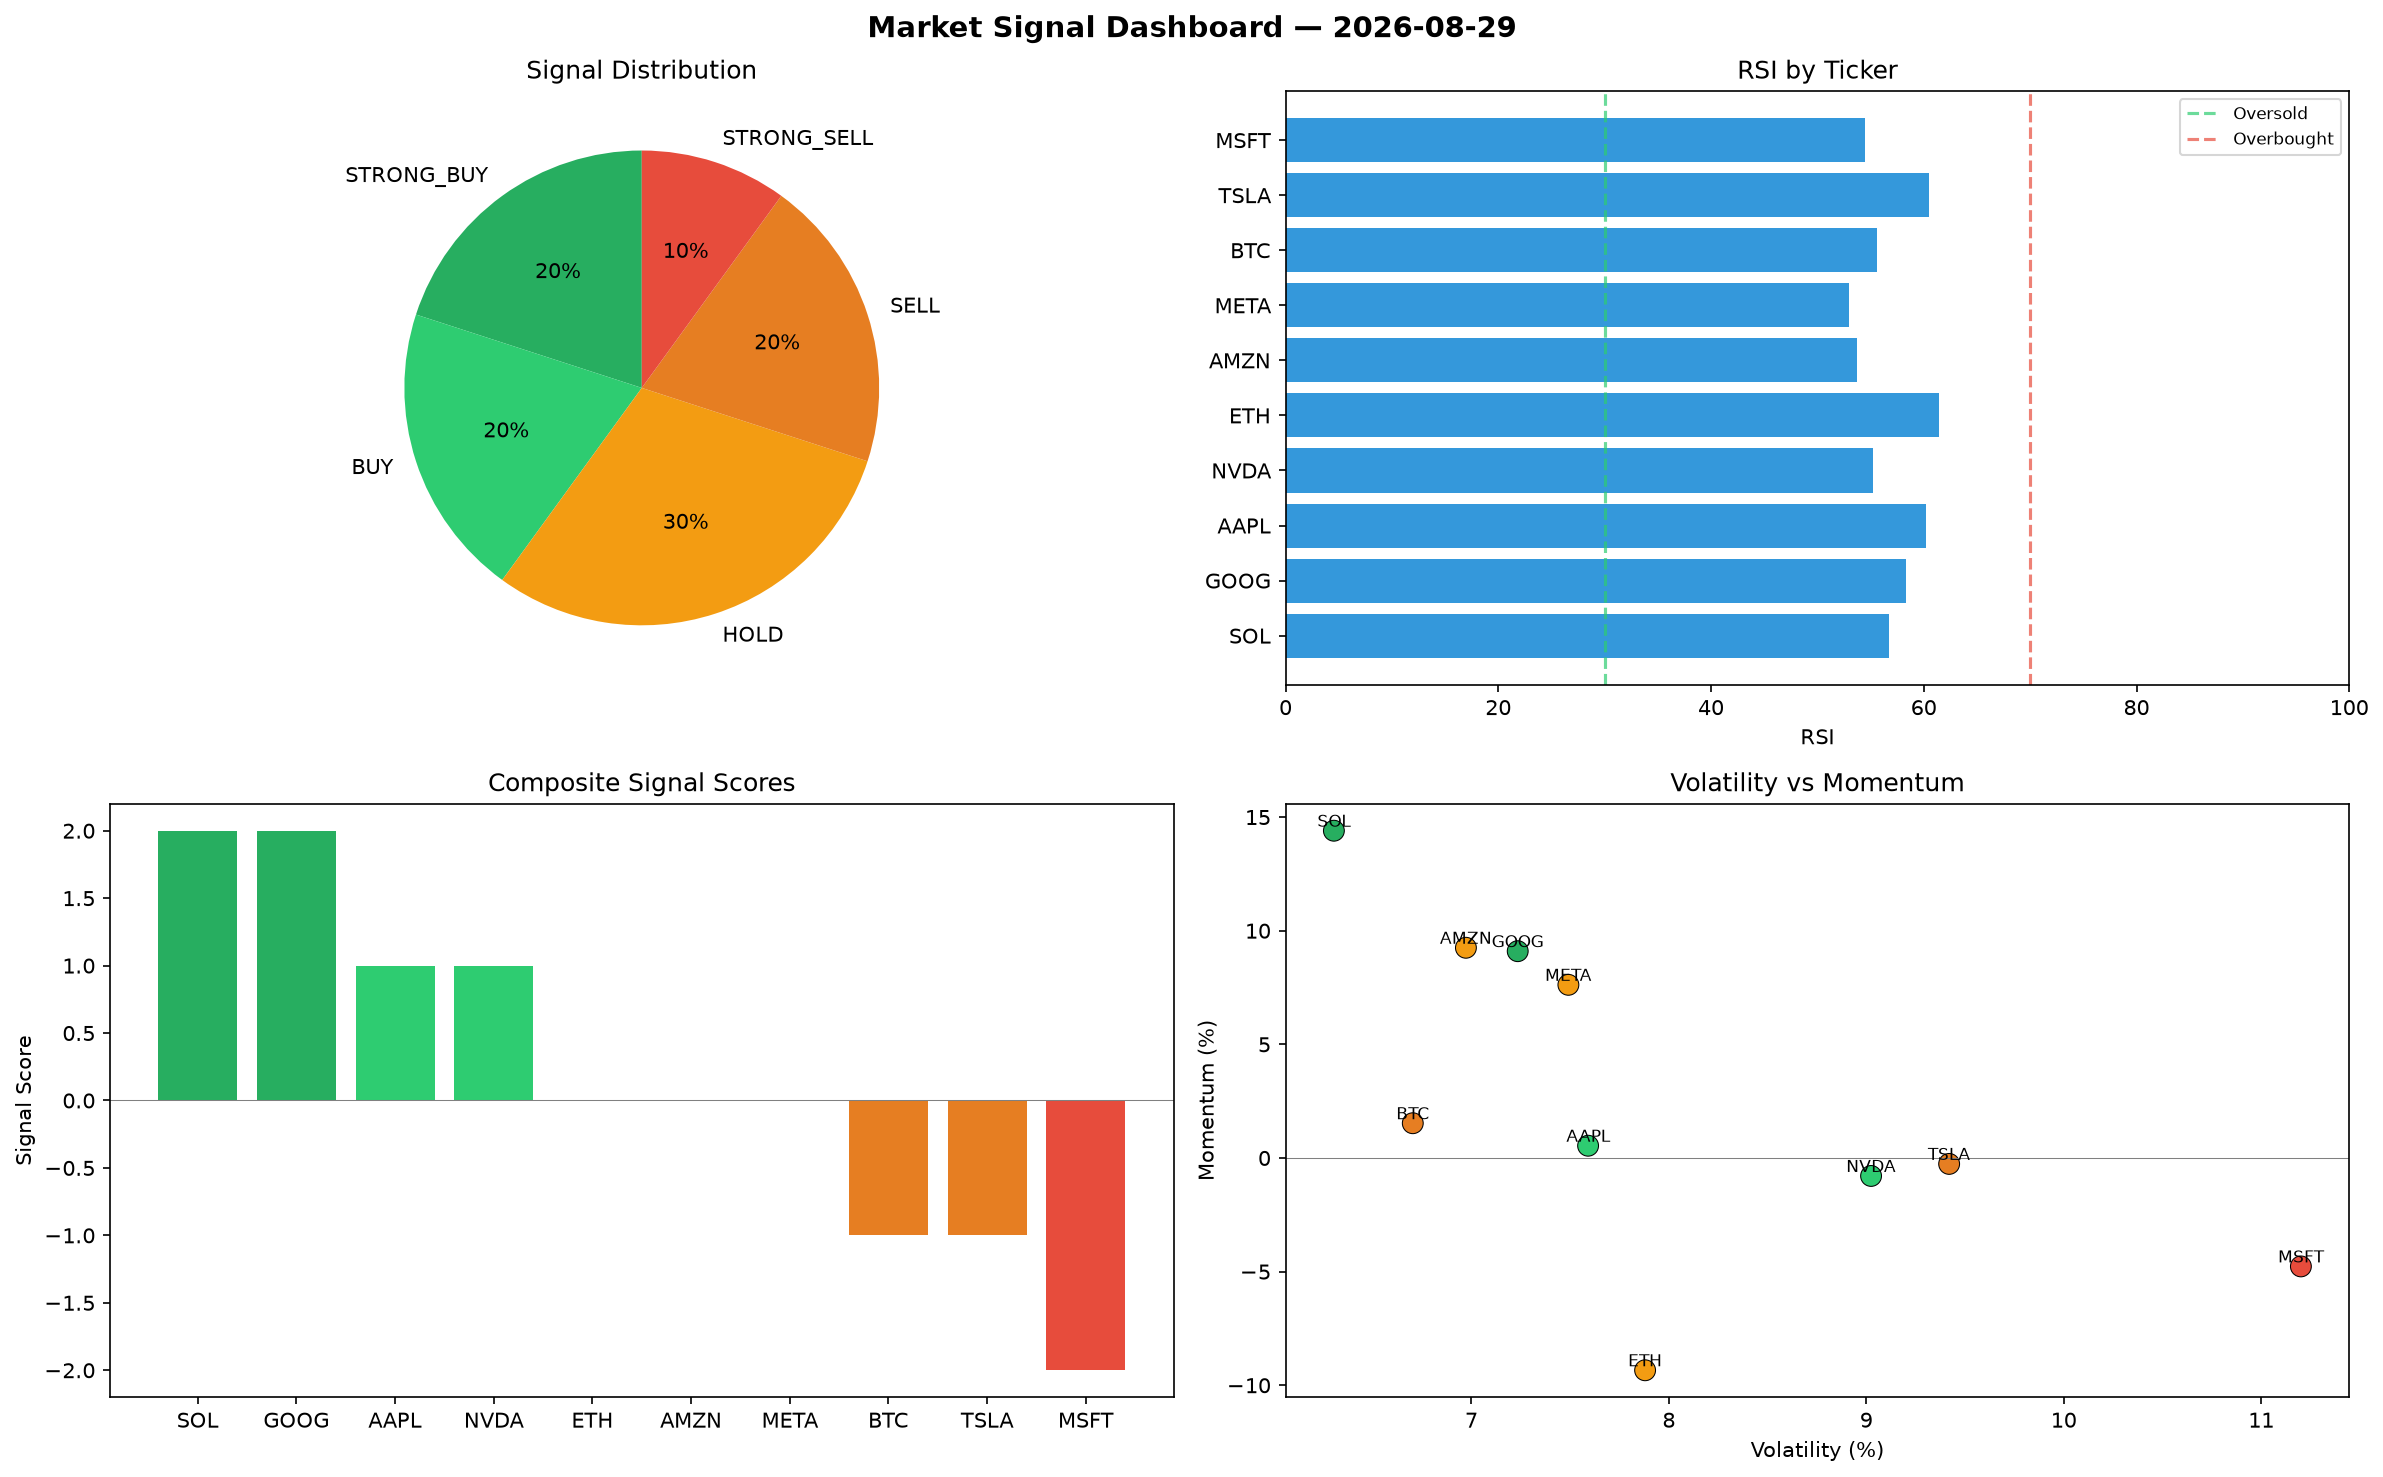
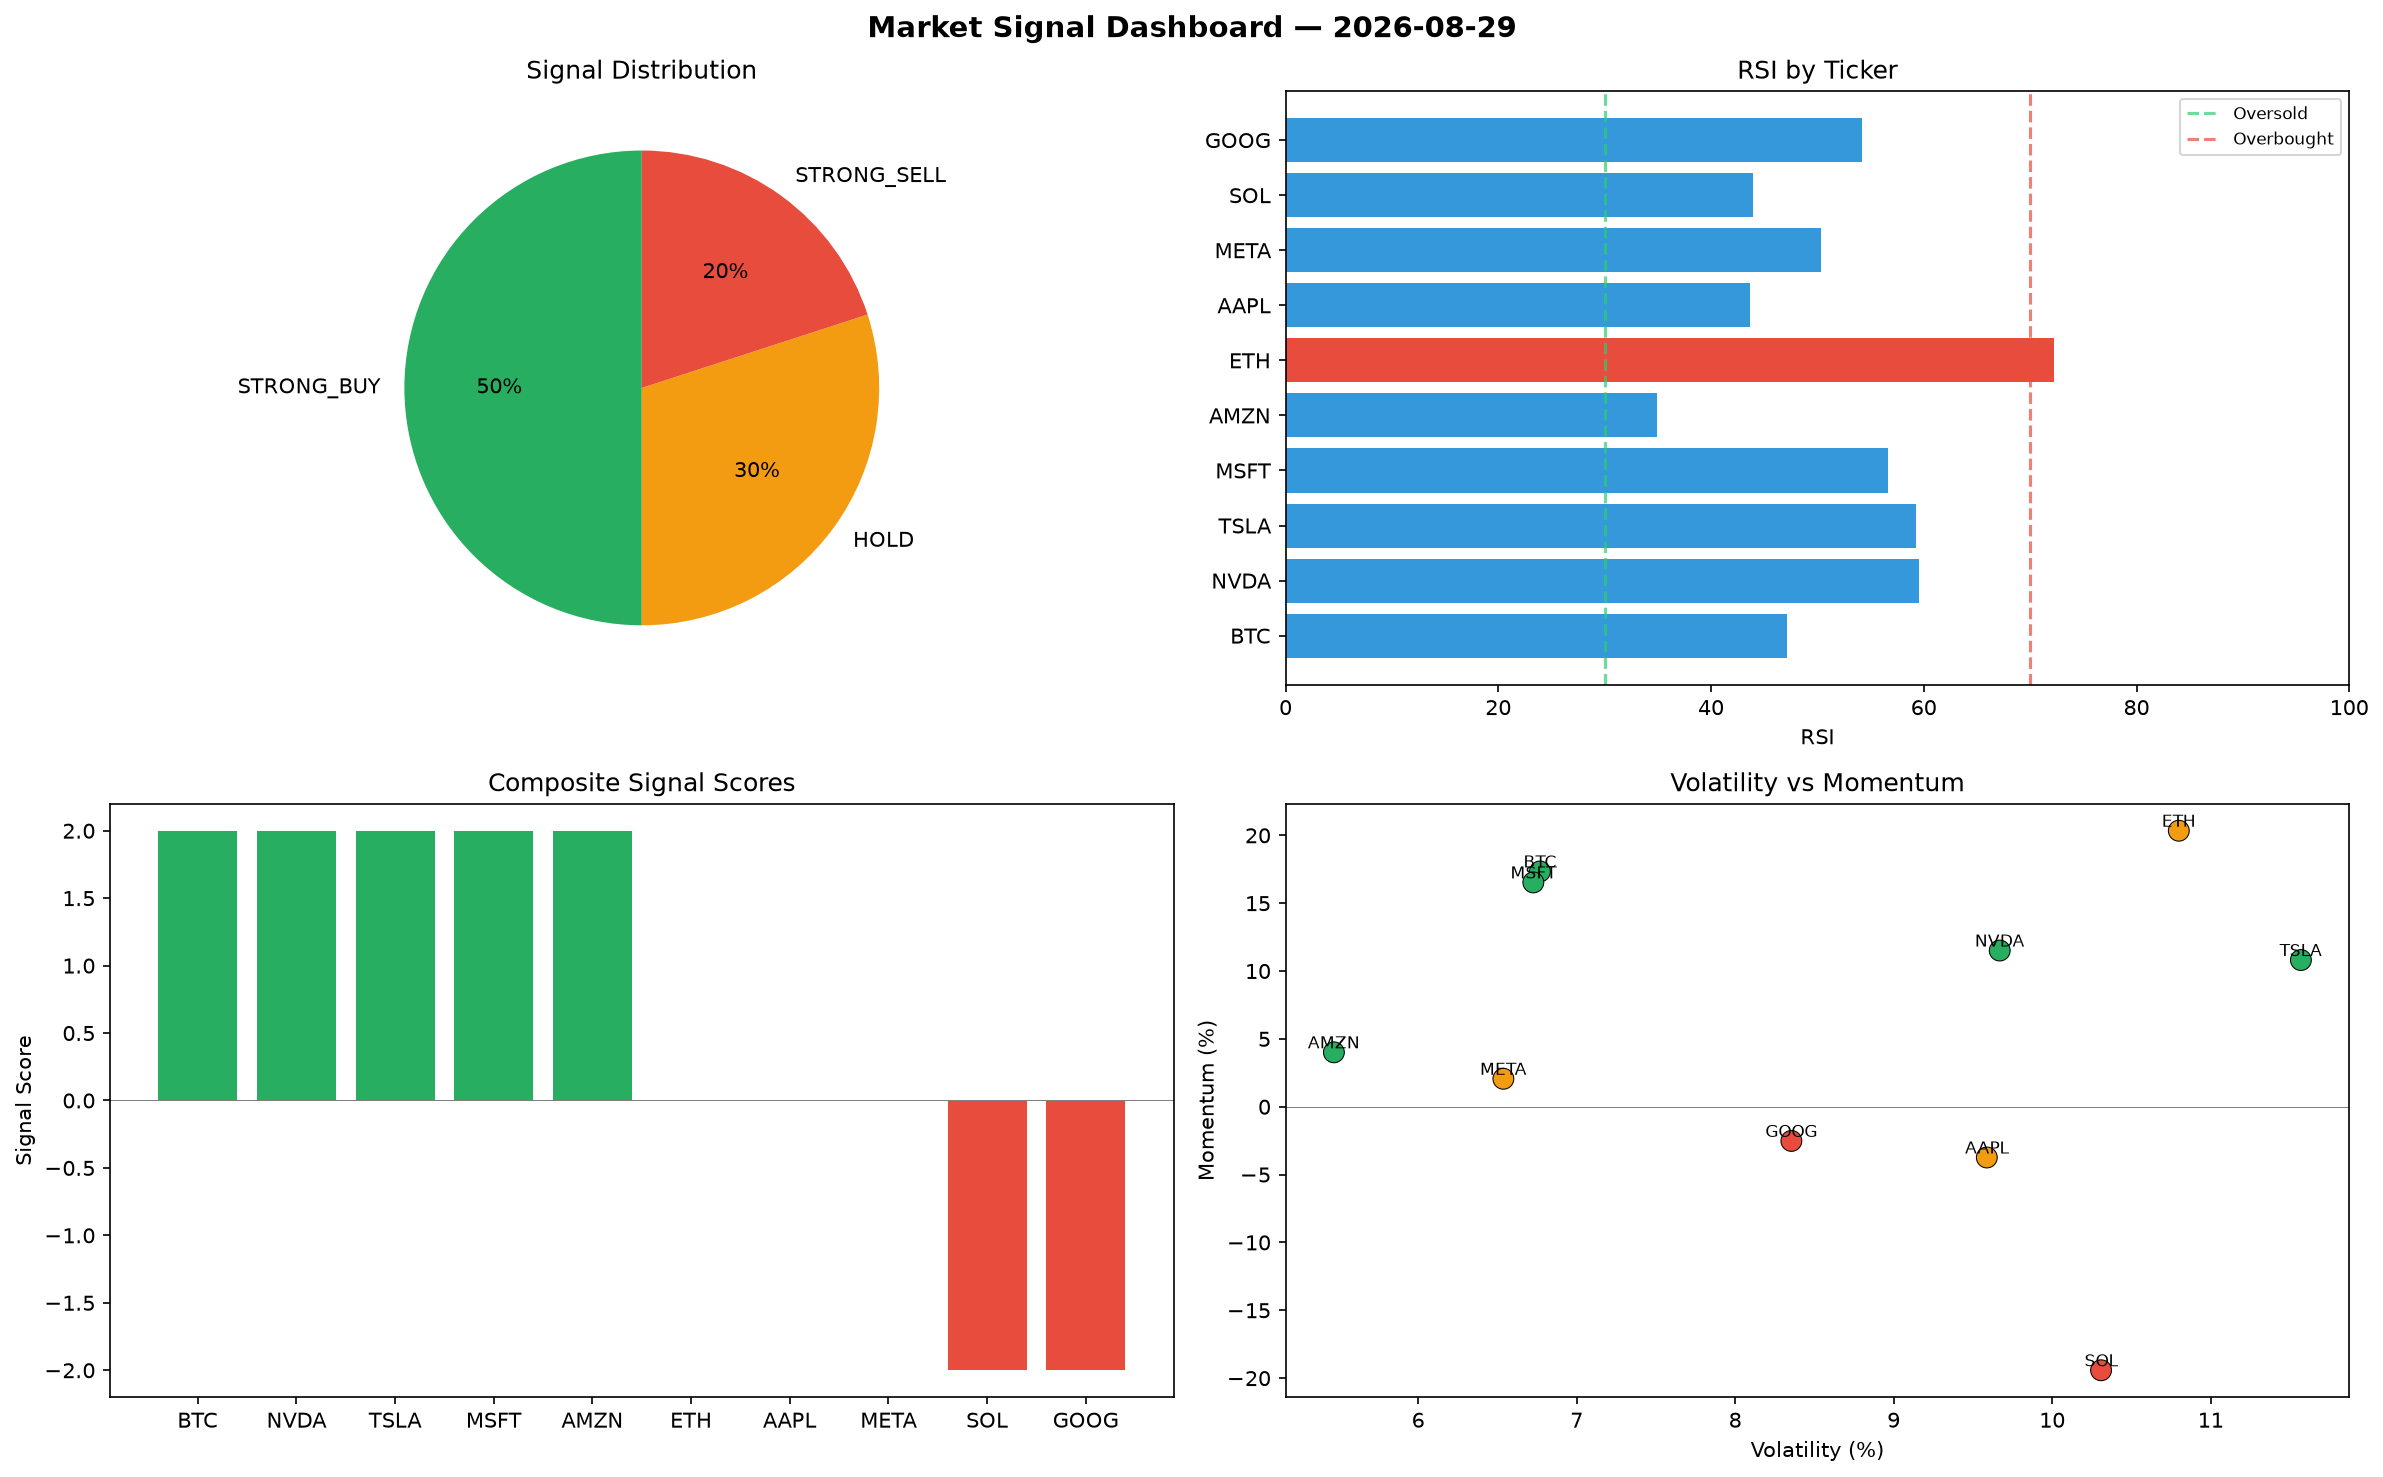
automated-bots: market signals 2026-08-29T17:47

diff --git a/logs/2026-08-29.md b/logs/2026-08-29.md
@@ -1,6 +1,6 @@
 # Market Signal Report — 2026-08-29
 
-**Run ID:** `af00eaba4c` | **Buy:** 4 | **Sell:** 3 | **Hold:** 3
+**Run ID:** `7561aff47a` | **Buy:** 5 | **Sell:** 2 | **Hold:** 3
 
 ![Dashboard](2026-08-29_dashboard.png)
 
@@ -8,28 +8,28 @@
 
 | Ticker | Price | Signal | Score | RSI | Momentum | Confidence |
 |--------|-------|--------|-------|-----|----------|------------|
-| SOL | $4830.32 | **STRONG_BUY** | 2 | 56.7 | 0.144 | 0.5 |
-| GOOG | $4881.07 | **STRONG_BUY** | 2 | 58.34 | 0.091 | 0.5 |
-| AAPL | $3888.06 | **BUY** | 1 | 60.19 | 0.0054 | 0.25 |
-| NVDA | $3579.87 | **BUY** | 1 | 55.26 | -0.0079 | 0.25 |
-| ETH | $637.87 | **HOLD** | 0 | 61.45 | -0.0934 | 0.0 |
-| AMZN | $4426.55 | **HOLD** | 0 | 53.71 | 0.0925 | 0.0 |
-| META | $1575.6 | **HOLD** | 0 | 52.93 | 0.0762 | 0.0 |
-| BTC | $3562.92 | **SELL** | -1 | 55.65 | 0.0153 | 0.25 |
-| TSLA | $2331.29 | **SELL** | -1 | 60.47 | -0.0026 | 0.25 |
-| MSFT | $3379.12 | **STRONG_SELL** | -2 | 54.5 | -0.0477 | 0.5 |
+| BTC | $35.32 | **STRONG_BUY** | 2 | 47.16 | 0.1734 | 0.5 |
+| NVDA | $1065.92 | **STRONG_BUY** | 2 | 59.52 | 0.1151 | 0.5 |
+| TSLA | $3422.57 | **STRONG_BUY** | 2 | 59.24 | 0.1081 | 0.5 |
+| MSFT | $5275.23 | **STRONG_BUY** | 2 | 56.62 | 0.1653 | 0.5 |
+| AMZN | $3582.98 | **STRONG_BUY** | 2 | 34.94 | 0.0401 | 0.5 |
+| ETH | $2476.12 | **HOLD** | 0 | 72.21 | 0.2034 | 0.0 |
+| AAPL | $264.86 | **HOLD** | 0 | 43.62 | -0.0374 | 0.0 |
+| META | $593.42 | **HOLD** | 0 | 50.37 | 0.0206 | 0.0 |
+| SOL | $781.78 | **STRONG_SELL** | -2 | 43.96 | -0.1942 | 0.5 |
+| GOOG | $4209.24 | **STRONG_SELL** | -2 | 54.19 | -0.0252 | 0.5 |
 
 ## Delta vs Yesterday
 
 | Ticker | Today | Yesterday | Price Change | Signal Changed |
 |--------|-------|-----------|-------------|----------------|
-| SOL | STRONG_BUY | STRONG_SELL | 📈 28.87% | ⚠ YES |
-| GOOG | STRONG_BUY | STRONG_SELL | 📈 166.94% | ⚠ YES |
-| AAPL | BUY | STRONG_SELL | 📈 34.61% | ⚠ YES |
-| NVDA | BUY | STRONG_BUY | 📈 21.23% | ⚠ YES |
-| ETH | HOLD | STRONG_BUY | 📉 -86.6% | ⚠ YES |
-| AMZN | HOLD | STRONG_BUY | 📈 64.64% | ⚠ YES |
-| META | HOLD | STRONG_SELL | 📉 -64.6% | ⚠ YES |
-| BTC | SELL | HOLD | 📈 42.89% | ⚠ YES |
-| TSLA | SELL | HOLD | 📉 -38.53% | ⚠ YES |
-| MSFT | STRONG_SELL | STRONG_SELL | 📈 22.94% | — |
+| BTC | STRONG_BUY | HOLD | 📉 -98.58% | ⚠ YES |
+| NVDA | STRONG_BUY | STRONG_BUY | 📉 -63.9% | — |
+| TSLA | STRONG_BUY | HOLD | 📉 -9.75% | ⚠ YES |
+| MSFT | STRONG_BUY | STRONG_SELL | 📈 91.92% | ⚠ YES |
+| AMZN | STRONG_BUY | STRONG_BUY | 📈 33.26% | — |
+| ETH | HOLD | STRONG_BUY | 📉 -47.98% | ⚠ YES |
+| AAPL | HOLD | STRONG_SELL | 📉 -90.83% | ⚠ YES |
+| META | HOLD | STRONG_SELL | 📉 -86.67% | ⚠ YES |
+| SOL | STRONG_SELL | STRONG_SELL | 📉 -79.14% | — |
+| GOOG | STRONG_SELL | STRONG_SELL | 📈 130.2% | — |
